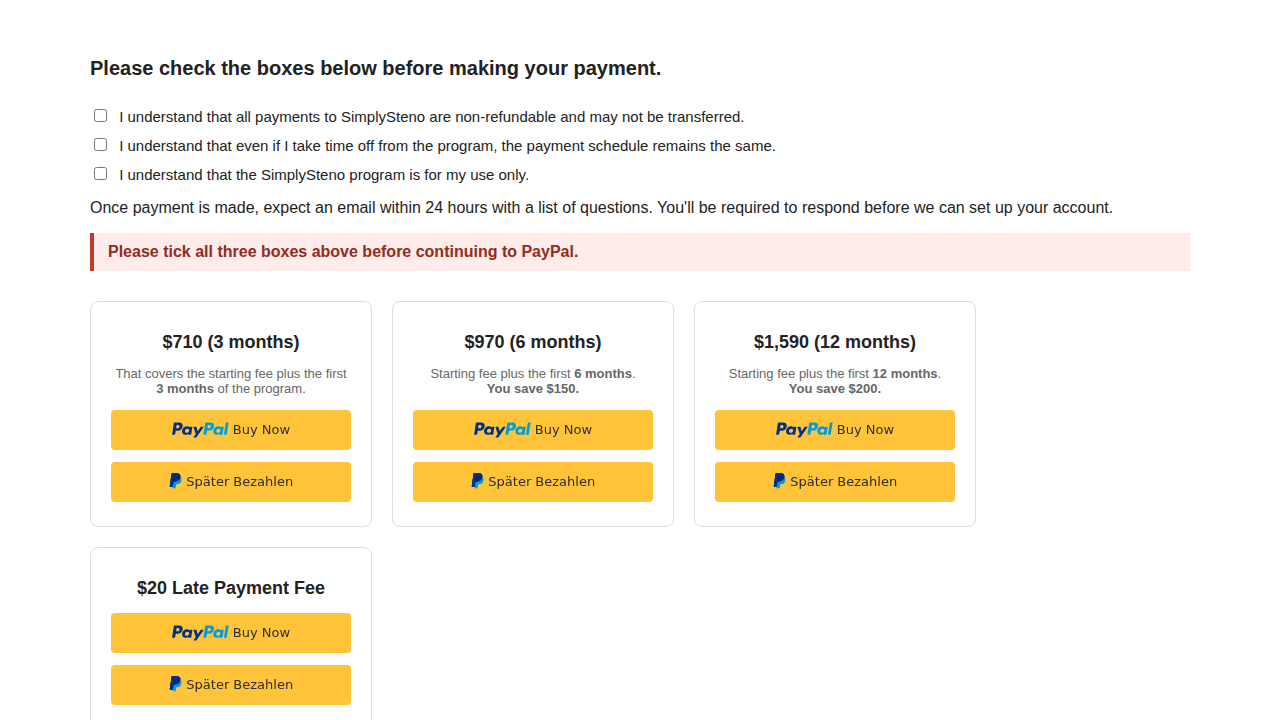
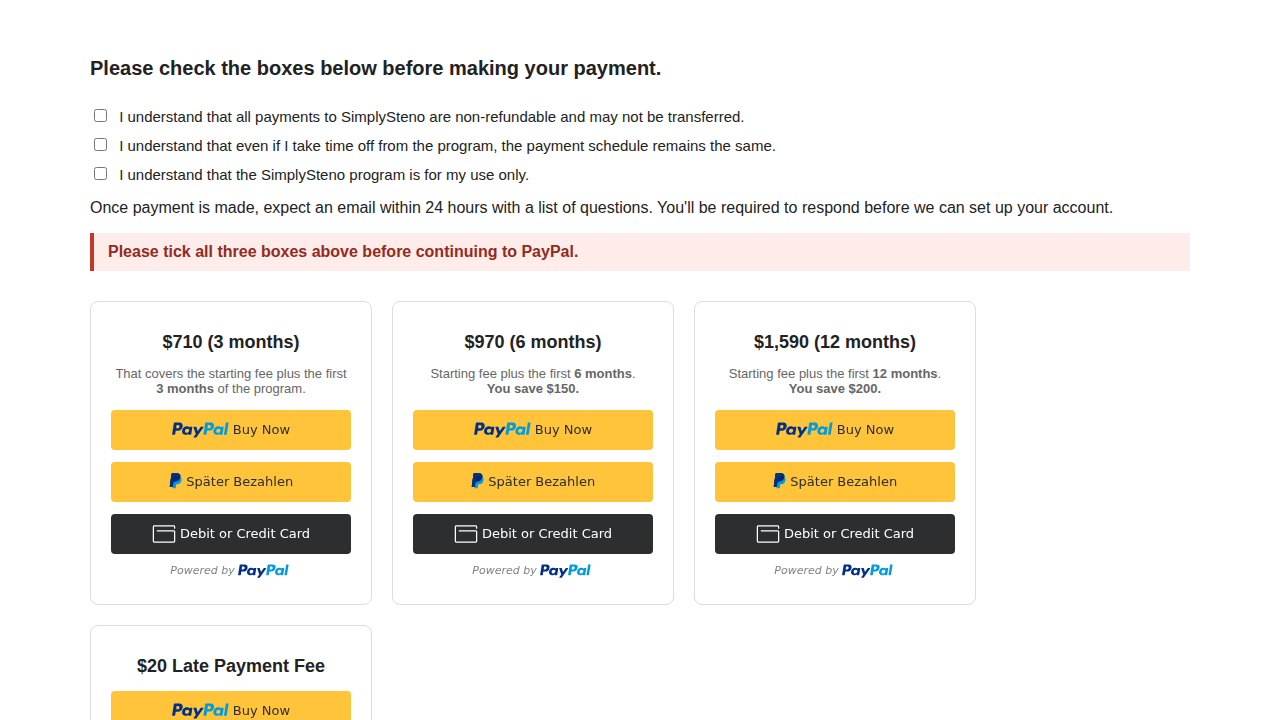
Wire in real Sandbox/Live Client IDs; add Debit or Credit Card button per card
- PAYPAL_CLIENT_ID now ships with the Sandbox ID active and the Live ID one
  comment-swap away.
- 'card' removed from DISABLE_FUNDING, so each price card shows Buy Now,
  Pay Later and Debit or Credit Card. All three are gated on the checkboxes.
- Behavioural test extended to click the card button while unticked and
  assert no PayPal window opens.

Changed region(s): [[0.0625, 0.7028, 0.2812, 1.0], [0.3125, 0.7028, 0.75, 0.7944]]

diff --git a/demo/index.html b/demo/index.html
@@ -127,21 +127,27 @@
 
   /* ------------------------------------------------------------------ *
    * 1. CONFIG — the only line you normally need to touch.
-   *    Use the Sandbox client ID to test, the Live one to go live.
-   *    "test" = PayPal's public demo ID (renders buttons, takes no money).
+   *
+   *    SANDBOX (fake money, for testing)  <-- currently active
+   *    LIVE    (real money)               <-- swap in when you're happy
+   *
+   *    To go live: comment out the SANDBOX line, uncomment the LIVE line.
    * ------------------------------------------------------------------ */
-  var PAYPAL_CLIENT_ID = "test";
+  var PAYPAL_CLIENT_ID =
+    /* SANDBOX */ "AfnC9p0Vcdgx8SSWAx-Z9Tj_IF_ClNjcmb0E5yjqh_Auu6EmsoD_rDRlF-Ja9i5S_84kzJLXv4mmmwwy";
+    /* LIVE    */ // "AY1XMO_TbgDuGrqwOewBRgCriJngfl1h0GQrdpVY5n1opz6pLYu-R2EfwerSVXTbsA2sV-uYuM0DlEvL";
+
   var CURRENCY         = "USD";
   var LOCALE           = "en_US";   // pin it, or PayPal guesses from the
                                     // shopper's IP and shows German/SEPA etc.
 
-  /* Which payment buttons appear on each card.
-     Kept deliberately tight: the gold "Buy Now" button plus PayPal Credit
-     (Pay Later), which the page already advertises. Shoppers without a
-     PayPal account can still pay by card as a guest *inside* the PayPal
-     window, so nothing is lost by not showing a separate card button.
-     To also show a standalone card button, drop "card" from this list. */
-  var DISABLE_FUNDING  = "card,sepa,bancontact,eps,giropay,ideal,mybank,p24,sofort,venmo";
+  /* Which payment buttons appear on each card. Each card shows:
+       - the gold "PayPal / Buy Now" button
+       - "Pay Later" (PayPal Credit), which the page already advertises
+       - a black "Debit or Credit Card" button, for shoppers with no PayPal account
+     Everything else (SEPA, iDEAL, giropay, Venmo...) is switched off — they're
+     either European-only or irrelevant here, and they just clutter the card. */
+  var DISABLE_FUNDING  = "sepa,bancontact,eps,giropay,ideal,mybank,p24,sofort,venmo";
 
   /* ------------------------------------------------------------------ *
    * 2. Read the price straight off each card's own heading.

diff --git a/simplysteno-paypal-widget.html b/simplysteno-paypal-widget.html
@@ -17,21 +17,27 @@
 
   /* ------------------------------------------------------------------ *
    * 1. CONFIG — the only line you normally need to touch.
-   *    Use the Sandbox client ID to test, the Live one to go live.
-   *    "test" = PayPal's public demo ID (renders buttons, takes no money).
+   *
+   *    SANDBOX (fake money, for testing)  <-- currently active
+   *    LIVE    (real money)               <-- swap in when you're happy
+   *
+   *    To go live: comment out the SANDBOX line, uncomment the LIVE line.
    * ------------------------------------------------------------------ */
-  var PAYPAL_CLIENT_ID = "test";
+  var PAYPAL_CLIENT_ID =
+    /* SANDBOX */ "AfnC9p0Vcdgx8SSWAx-Z9Tj_IF_ClNjcmb0E5yjqh_Auu6EmsoD_rDRlF-Ja9i5S_84kzJLXv4mmmwwy";
+    /* LIVE    */ // "AY1XMO_TbgDuGrqwOewBRgCriJngfl1h0GQrdpVY5n1opz6pLYu-R2EfwerSVXTbsA2sV-uYuM0DlEvL";
+
   var CURRENCY         = "USD";
   var LOCALE           = "en_US";   // pin it, or PayPal guesses from the
                                     // shopper's IP and shows German/SEPA etc.
 
-  /* Which payment buttons appear on each card.
-     Kept deliberately tight: the gold "Buy Now" button plus PayPal Credit
-     (Pay Later), which the page already advertises. Shoppers without a
-     PayPal account can still pay by card as a guest *inside* the PayPal
-     window, so nothing is lost by not showing a separate card button.
-     To also show a standalone card button, drop "card" from this list. */
-  var DISABLE_FUNDING  = "card,sepa,bancontact,eps,giropay,ideal,mybank,p24,sofort,venmo";
+  /* Which payment buttons appear on each card. Each card shows:
+       - the gold "PayPal / Buy Now" button
+       - "Pay Later" (PayPal Credit), which the page already advertises
+       - a black "Debit or Credit Card" button, for shoppers with no PayPal account
+     Everything else (SEPA, iDEAL, giropay, Venmo...) is switched off — they're
+     either European-only or irrelevant here, and they just clutter the card. */
+  var DISABLE_FUNDING  = "sepa,bancontact,eps,giropay,ideal,mybank,p24,sofort,venmo";
 
   /* ------------------------------------------------------------------ *
    * 2. Read the price straight off each card's own heading.

diff --git a/test_behaviour.py b/test_behaviour.py
@@ -13,20 +13,32 @@ with sync_playwright() as p:
     popups = []
     ctx.on("page", lambda pop: popups.append(pop))
 
-    pg.goto("http://127.0.0.1:8912/", wait_until="networkidle", timeout=60000)
+    pg.goto("http://127.0.0.1:8947/index.html", wait_until="networkidle", timeout=60000)
     pg.wait_for_selector(".ss-paypal-button iframe", timeout=30000)
     pg.wait_for_timeout(3000)
 
-    btn = pg.frame_locator(".ss-paypal-button iframe").first.locator(
-        "[data-funding-source='paypal']").first
+    fr = pg.frame_locator(".ss-paypal-button iframe").first
+    btn  = fr.locator("[data-funding-source='paypal']").first
+    card = fr.locator("[data-funding-source='card']").first
+    print("BUTTONS on first card:",
+          fr.locator("[data-funding-source]").count(),
+          "| card button present:", card.count() > 0, "(want True)")
+    print("dead hermes links left:",
+          pg.locator('a[href*="/webapps/hermes"]').count(), "(want 0)")
 
     # --- TEST 1: boxes unticked -> click must NOT open PayPal ---
     btn.click(force=True)
     pg.wait_for_timeout(4000)
-    print("TEST 1  boxes UNTICKED, clicked Pay")
+    print("TEST 1  boxes UNTICKED, clicked PayPal")
     print("        PayPal windows opened :", len(popups), "(want 0)")
     print("        warning shown to user :", warning_visible(pg), "(want True)")
     pg.screenshot(path="shot_1_blocked.png")
+
+    # --- TEST 1b: the new Debit/Credit Card button must be gated too ---
+    card.click(force=True)
+    pg.wait_for_timeout(4000)
+    print("TEST 1b boxes UNTICKED, clicked Debit or Credit Card")
+    print("        PayPal windows opened :", len(popups), "(want 0)")
 
     # --- TEST 2: only 2 of 3 -> still blocked ---
     pg.check('input[name="agree1"]'); pg.check('input[name="agree2"]')

diff --git a/README.md b/README.md
@@ -45,45 +45,52 @@ they are.
 1. WordPress → Pages → **Payments** → Edit with Elementor.
 2. Drag an **HTML** widget to the very bottom of the page (below the last price card).
 3. Paste in the entire contents of `simplysteno-paypal-widget.html`.
-4. Set `PAYPAL_CLIENT_ID` (line ~25) — see below.
-5. Update.
+4. Update.
 
-### Client ID
+### Sandbox → Live
 
-Get these from https://developer.paypal.com → Apps & Credentials, using the Business account:
+The widget ships wired to the **Sandbox** Client ID, so the first payment you make is fake money.
+Once you're happy, flip two lines near the top of the file:
 
-- **Sandbox** tab → Client ID → test the whole flow with fake money.
-- **Live** tab → Client ID → real payments.
+```js
+var PAYPAL_CLIENT_ID =
+  /* SANDBOX */ "AfnC9p0V...";     // <- comment this line out
+  /* LIVE    */ // "AY1XMO_T...";  // <- uncomment this one
+```
 
-The file ships with `PAYPAL_CLIENT_ID = "test"`, PayPal's public demo ID. Buttons render and the
-checkout window opens, but **no money moves** — safe for previewing, useless for real payments.
-Swap it for the Live ID when you're happy.
+Nothing else changes. To test the sandbox flow you sign in at the PayPal window with a **sandbox
+buyer** account (developer.paypal.com → Testing Tools → Sandbox Accounts — PayPal creates a
+personal one for you automatically), not your real PayPal login.
 
 ## Verified
 
-Driven in a real browser (Playwright, Chromium):
+Driven in a real browser (Playwright, Chromium), against the **real Sandbox Client ID**:
 
 | Test | Result |
 |---|---|
+| buttons rendered per card | **3** — Buy Now, Pay Later, Debit or Credit Card |
 | 0 boxes ticked → click Buy Now | **blocked**, no PayPal window, warning shown |
+| 0 boxes ticked → click Debit or Credit Card | **blocked**, no PayPal window |
 | 2 of 3 ticked → click Buy Now | **blocked**, no PayPal window |
 | 3 of 3 ticked → click Buy Now | **PayPal checkout opens** (`sandbox.paypal.com/checkoutnow`) |
-| untick a box afterwards | button **re-locks** immediately |
+| untick a box afterwards | buttons **re-lock** immediately |
 | dead `hermes` links remaining on page | **0** |
 | JS errors | none |
 
-Screenshots: `shot_1_blocked.png`, `shot_2_unlocked.png`, `shot_3_us_locale.png`.
+The gate is enforced by PayPal itself, not by us hiding anything — with the boxes unticked, PayPal's
+own accessibility label on all three buttons reads *"This button is currently inactive."*
+
+Screenshots: `shot_4_three_buttons.png`, `shot_1_blocked.png`, `shot_2_unlocked.png`.
 
 ## Notes
 
 - `LOCALE` is pinned to `en_US`. Without it PayPal guesses from the shopper's IP — while testing
   from a European server the buttons came up in German ("Später Bezahlen") with SEPA Direct Debit
   offered. Pinning the locale prevents that.
-- Funding is trimmed to the gold **Buy Now** button plus **Pay Later** (PayPal Credit), which the
-  page already advertises. Shoppers without a PayPal account can still pay by card as a guest
-  *inside* the PayPal window. If you'd rather show a separate "Debit or Credit Card" button on each
-  card, remove `card` from `DISABLE_FUNDING`.
-- The `$20 Late Payment Fee` card gets a button too, same as the rest.
+- Each card shows **Buy Now**, **Pay Later** (PayPal Credit, which the page already advertises) and
+  **Debit or Credit Card** for shoppers with no PayPal account. Europe-only rails (SEPA, iDEAL,
+  giropay…) and Venmo are switched off in `DISABLE_FUNDING` — they'd only clutter the card.
+- The `$20 Late Payment Fee` card gets buttons too, same as the rest.
 
 ## Files
 
